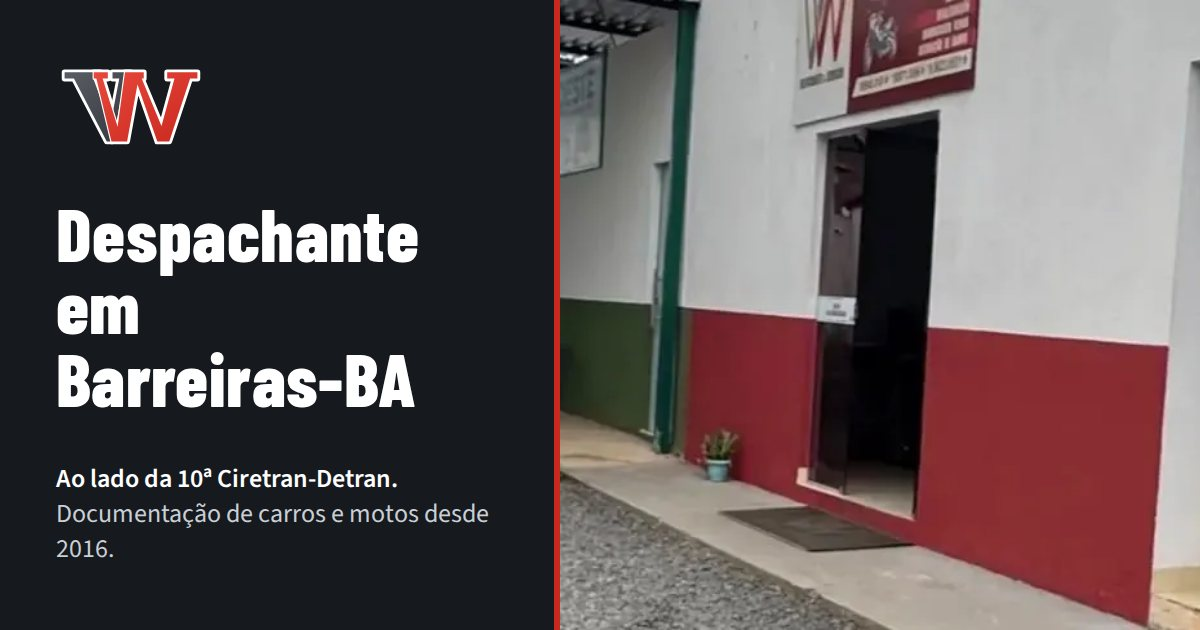
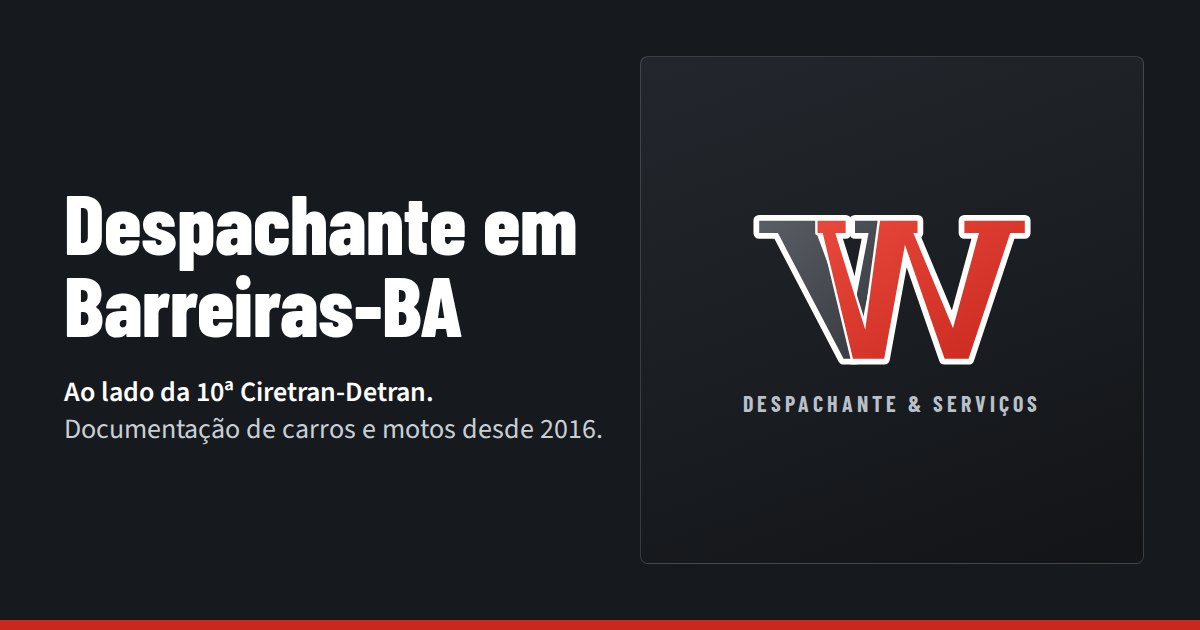
Volta a arte da marca no hero; tira a foto da fachada até ter uma de qualidade
- og:image refeita só com a marca
- Remove a fachada do schema, do sitemap e o preload

Claude-Session: https://claude.ai/code/session_013Q8kZrhewKiC5Ljtm7k8HP

diff --git a/index.html b/index.html
@@ -18,7 +18,7 @@
 <meta property="og:image" content="https://www.vwdespachante.com.br/assets/img/og-vw-despachante.jpg">
 <meta property="og:image:width" content="1200">
 <meta property="og:image:height" content="630">
-<meta property="og:image:alt" content="Fachada da VW Despachante em Barreiras-BA, ao lado da 10ª Ciretran-Detran">
+<meta property="og:image:alt" content="VW Despachante, despachante em Barreiras-BA ao lado da 10ª Ciretran-Detran">
 <meta name="twitter:card" content="summary_large_image">
 <meta name="theme-color" content="#8A1E15">
 <link rel="canonical" href="https://www.vwdespachante.com.br/">
@@ -28,7 +28,6 @@
 <link rel="preconnect" href="https://fonts.googleapis.com">
 <link rel="preconnect" href="https://fonts.gstatic.com" crossorigin>
 <link href="https://fonts.googleapis.com/css2?family=Barlow+Condensed:wght@500;600;700;800&family=Source+Sans+3:wght@400;600;700&display=swap" rel="stylesheet">
-<link rel="preload" as="image" href="/assets/img/fotos/fachada-800.webp" imagesrcset="/assets/img/fotos/fachada-800.webp 800w, /assets/img/fotos/fachada-1179.webp 1179w" imagesizes="(min-width: 960px) 520px, 92vw" type="image/webp">
 <link rel="stylesheet" href="/assets/css/site.css">
 
 <script type="application/ld+json">
@@ -48,7 +47,6 @@
         "height": 512
       },
       "image": [
-        "https://www.vwdespachante.com.br/assets/img/fotos/fachada-800.jpg",
         "https://www.vwdespachante.com.br/assets/img/og-vw-despachante.jpg",
         "https://www.vwdespachante.com.br/assets/img/fotos/equipe-600.jpg"
       ],
@@ -262,7 +260,7 @@
       },
       "primaryImageOfPage": {
         "@type": "ImageObject",
-        "url": "https://www.vwdespachante.com.br/assets/img/fotos/fachada-800.jpg"
+        "url": "https://www.vwdespachante.com.br/assets/img/og-vw-despachante.jpg"
       },
       "inLanguage": "pt-BR",
       "dateModified": "2026-09-29"
@@ -421,17 +419,23 @@
         </div>
         <p class="hero-nota"><span class="estrela" aria-hidden="true">★</span> <strong>Nota 5,0 no Google</strong> · Pix, cartão e dinheiro</p>
       </div>
-      <figure class="hero-foto">
-        <picture>
-          <source type="image/webp" srcset="/assets/img/fotos/fachada-800.webp 800w, /assets/img/fotos/fachada-1179.webp 1179w" sizes="(min-width: 960px) 520px, 92vw">
-          <img src="/assets/img/fotos/fachada-800.jpg" width="800" height="331" fetchpriority="high" decoding="async" alt="Fachada da VW Despachante na Rua Pastor Plácido da Rocha Pitta, em Barreiras-BA, ao lado da 10ª Ciretran-Detran">
-        </picture>
+      <div class="hero-visual">
+        <div class="hero-arte">
+          <!-- SUBSTITUIR (futuro): foto de qualidade da fachada/escritório. Quando existir, troque o logo e o texto abaixo por:
+          <picture>
+            <source type="image/webp" srcset="/assets/img/fotos/fachada-800.webp 800w, /assets/img/fotos/fachada-1200.webp 1200w" sizes="(min-width: 960px) 460px, 92vw">
+            <img class="foto" src="/assets/img/fotos/fachada-1200.jpg" width="1200" height="960" fetchpriority="high" alt="Fachada da VW Despachante em Barreiras-BA, ao lado da 10ª Ciretran-Detran">
+          </picture>
+          -->
+          <img class="hero-logo" src="/assets/img/logo-topo.svg" alt="" width="280" height="161" fetchpriority="high">
+          <span class="hero-marca" aria-hidden="true">Despachante &amp; Serviços</span>
+        </div>
         <div class="placa" role="img" aria-label="Placa no padrão Mercosul com o texto VWD 2016">
           <div class="placa-faixa"><span class="bandeira" aria-hidden="true"></span><span>BRASIL</span><span>BR</span></div>
           <div class="placa-num">VWD2016</div>
         </div>
-        <figcaption>Nosso escritório em Barreiras, desde 2016.</figcaption>
-      </figure>
+        <p class="hero-legenda">Regularizando veículos em Barreiras desde 2016</p>
+      </div>
     </div>
   </section>
 

diff --git a/assets/css/site.css b/assets/css/site.css
@@ -271,15 +271,23 @@ p { margin: 0; }
 .hero-nota strong { color: #fff; }
 .hero-nota .estrela { color: #F2C230; }
 
-.hero-foto { margin: 0; position: relative; padding-bottom: 2.25rem; }
-.hero-foto picture { display: block; aspect-ratio: 4 / 3; overflow: hidden; border-radius: var(--raio); background: #22262C; }
-.hero-foto picture img { width: 100%; height: 100%; object-fit: cover; object-position: 72% 30%; display: block; }
-.hero-foto .placa { position: absolute; left: -0.5rem; bottom: 0; width: min(62%, 300px); }
-.hero-foto figcaption { margin-top: 0.75rem; padding-left: calc(min(62%, 300px) + 0.75rem); color: var(--hero-suave); font-size: 0.875rem; line-height: 1.35; min-height: 2.4em; }
-@media (max-width: 599px) {
-  .hero-foto .placa { left: 0; width: 58%; }
-  .hero-foto figcaption { padding-left: calc(58% + 0.75rem); }
+/* Arte da marca (até existir foto de qualidade da fachada) com a placa sobreposta */
+.hero-visual { position: relative; }
+.hero-arte {
+  position: relative; aspect-ratio: 5 / 4; overflow: hidden;
+  border-radius: var(--raio); border: 1px solid var(--hero-linha);
+  background: linear-gradient(160deg, #23272D, #121417);
+  display: flex; flex-direction: column; align-items: center; justify-content: center; gap: 0.5rem;
+  padding: 1.5rem 1.5rem 4rem;
 }
+.hero-arte img.hero-logo { width: min(62%, 280px); height: auto; }
+.hero-marca { font-family: var(--fonte-titulo); font-weight: 700; letter-spacing: 0.18em; text-transform: uppercase; font-size: clamp(0.85rem, 2.6vw, 1.1rem); color: var(--hero-suave); }
+/* Quando a foto da fachada entrar, ela ocupa todo o quadro */
+.hero-arte picture, .hero-arte > img.foto { position: absolute; inset: 0; }
+.hero-arte picture img, .hero-arte > img.foto { width: 100%; height: 100%; object-fit: cover; }
+.hero-visual .placa { position: relative; width: min(80%, 360px); margin: -3.25rem auto 0; }
+.hero-legenda { margin-top: 1.25rem; text-align: center; color: var(--hero-suave); font-size: 0.95rem; }
+@media (max-width: 599px) { .hero-arte { aspect-ratio: 16 / 11; padding-bottom: 3.5rem; } }
 
 /* Sobre (texto de entidade + ficha técnica) */
 .sobre { padding: 3.5rem 0; }
